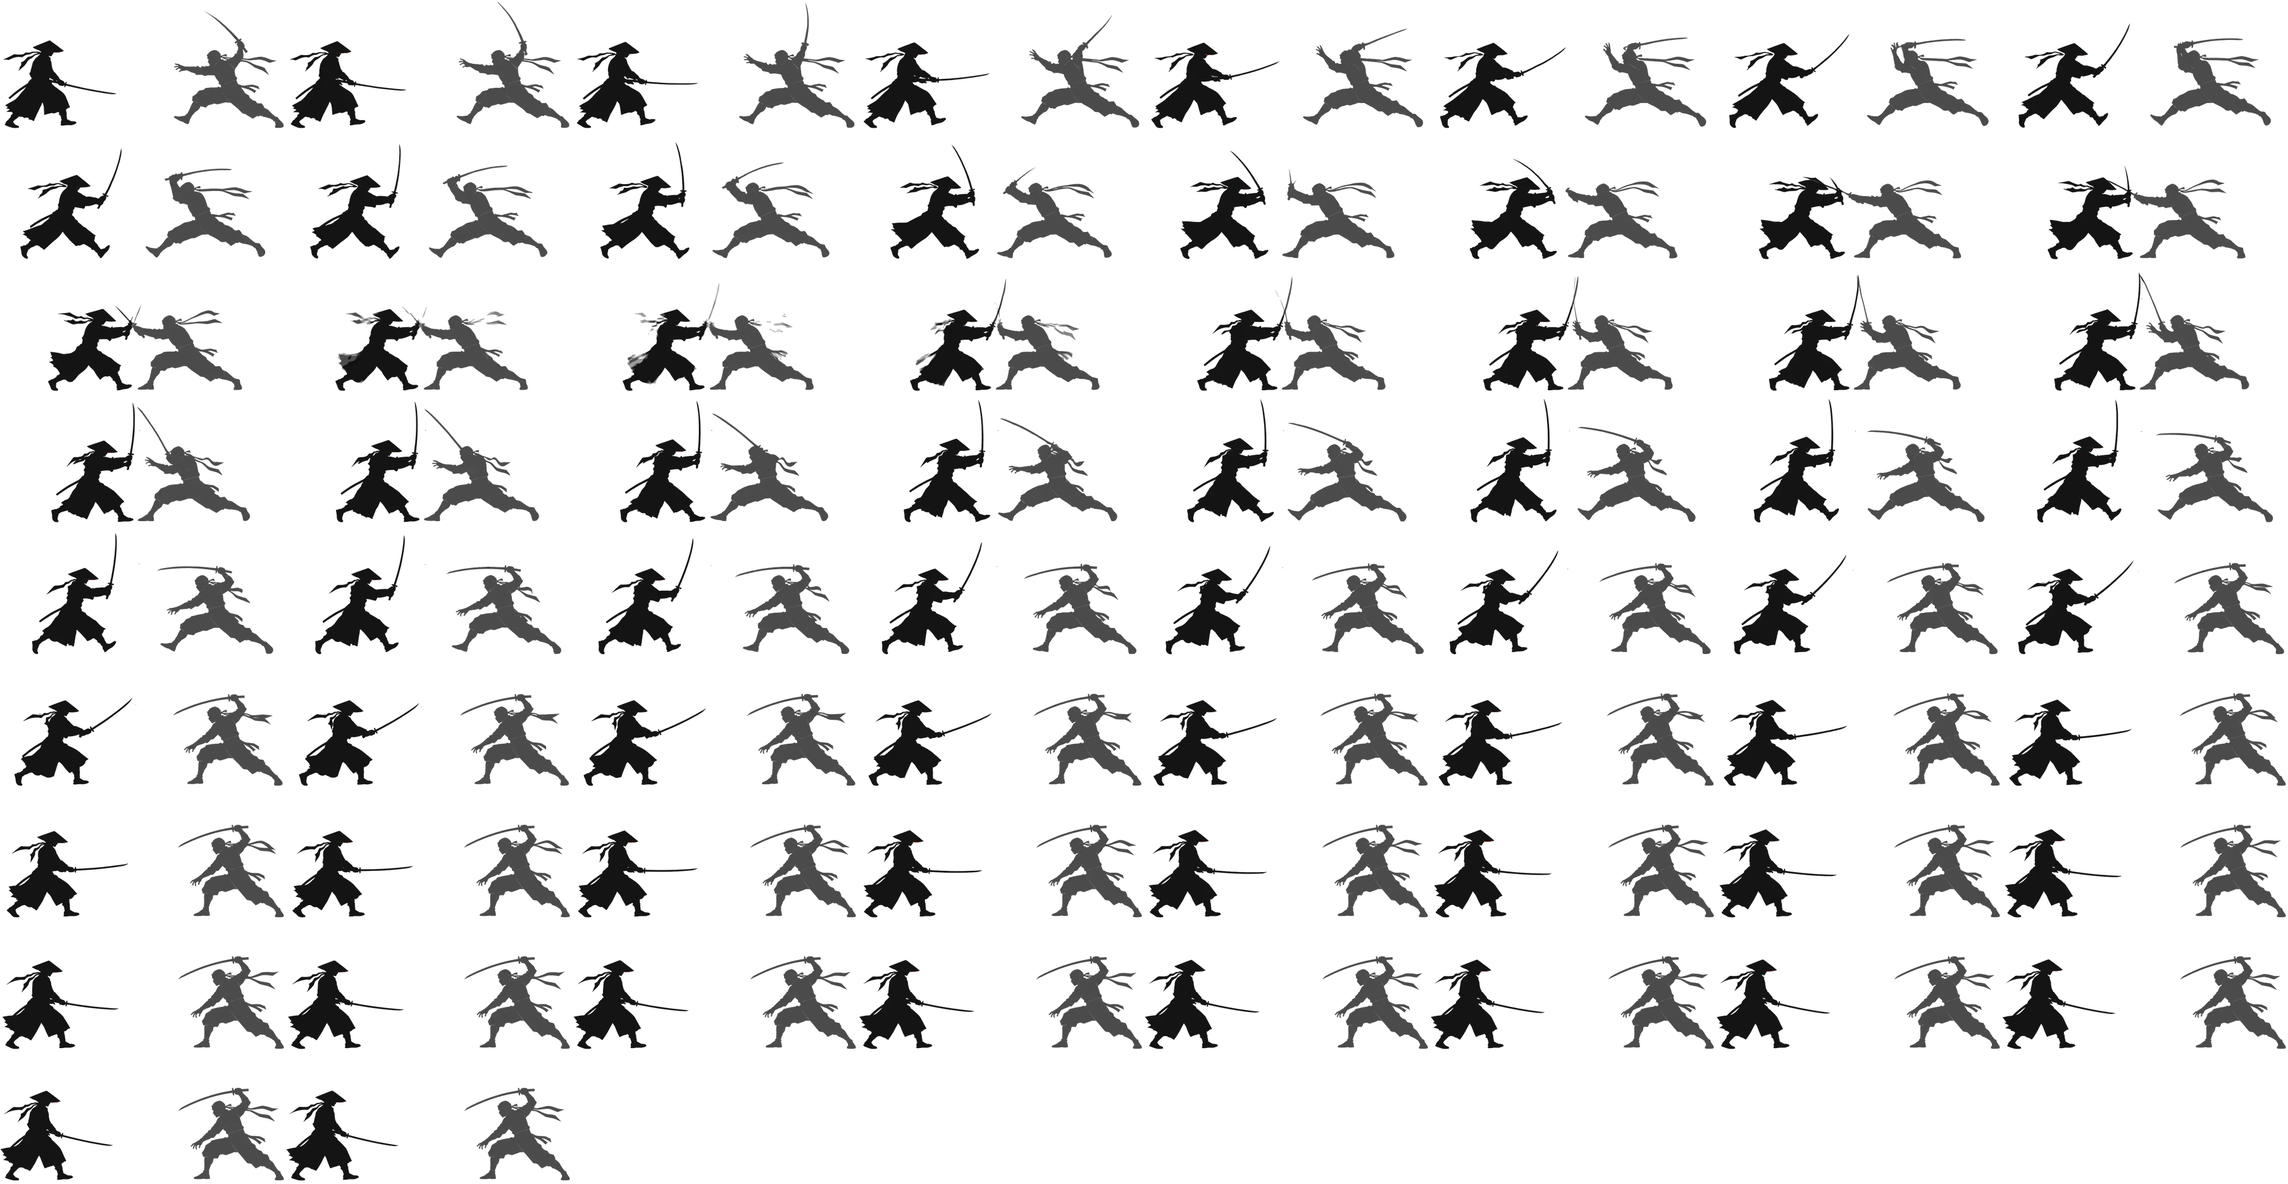
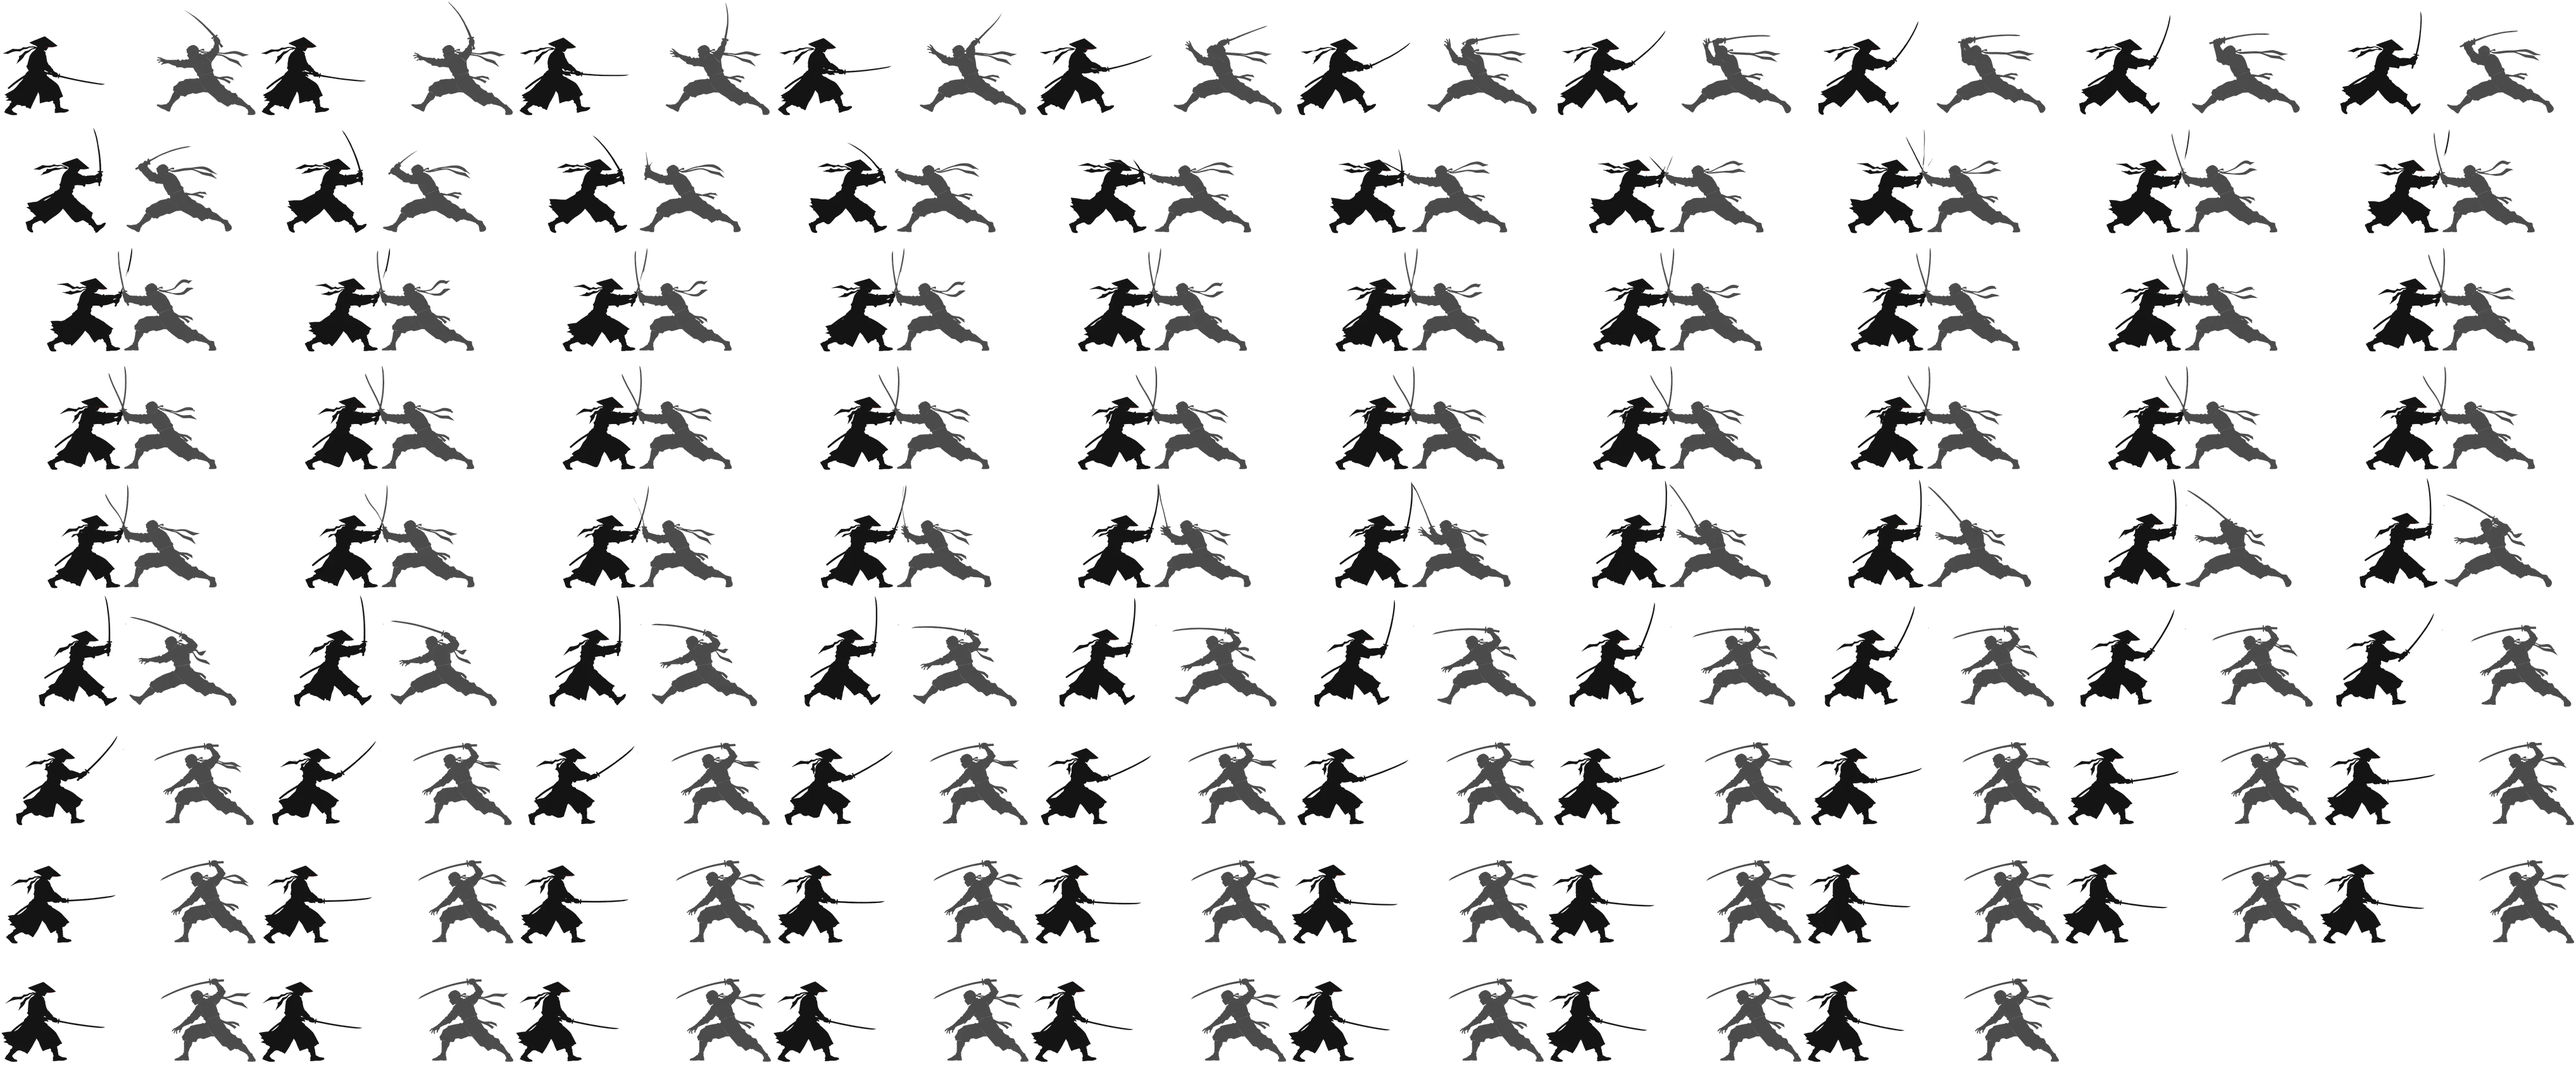
v0.36: parry súper fluido (cuadros 13 a 100 seguidos, sin saltos ni pausas)
Claude-Session: https://claude.ai/code/session_01BXqy3F16TAremLTdTkdmfS

diff --git a/src/ui/animaciones/Escena.tsx b/src/ui/animaciones/Escena.tsx
@@ -454,24 +454,23 @@ function Parry({ dur }: { dur: number }) {
 }
 
 /**
- * Parry hecho con el video de Luma de Navil (scripts/parry-sprites.py), todos los cuadros seguidos a 24 fps:
- * el rival salta y ataca, choque (pausa de impacto, destello, chispas y el kanji 忍 con su aura), tres cuadros
- * intermedios generados (minterpolate) hacia el rebote, se separan, el rival sale despedido y vuelven a guardia
- * hasta que la tela se asienta (sin cortar el movimiento: así no se traba al final).
+ * Parry hecho con el video de Luma de Navil (scripts/parry-sprites.py): los cuadros 13 a 100 seguidos a
+ * 24 fps, sin saltos ni pausas: el rival salta y ataca, choque (destello, chispas y el kanji 忍 con su aura),
+ * forcejeo, se separan, el rival sale despedido y vuelven a guardia hasta que la tela se asienta.
  */
-const PARRY_HOJA = { w: 452, h: 208, cols: 8, filas: 9 }
+const PARRY_HOJA = { w: 407, h: 187, cols: 10, filas: 9 }
 /** Cuántos cuadros de 24 fps se muestra cada celda de la hoja, en orden (velocidad natural del video). */
-const PARRY_TIEMPOS = [...Array(16).fill(1), 3, ...Array(48).fill(1), 2]
+const PARRY_TIEMPOS: number[] = Array(88).fill(1)
 const PARRY_CELDA_CHOQUE = 16
 const PARRY_TICKS = PARRY_TIEMPOS.reduce((a, b) => a + b, 0)
 const PARRY_INICIOS = PARRY_TIEMPOS.map((_, i) => PARRY_TIEMPOS.slice(0, i).reduce((a, b) => a + b, 0) / PARRY_TICKS)
 /** Momento del choque y del rebote (fracción de la duración). */
 const PARRY_CHOQUE = PARRY_INICIOS[PARRY_CELDA_CHOQUE]
-const PARRY_REBOTE = PARRY_INICIOS[PARRY_CELDA_CHOQUE + 1]
+const PARRY_REBOTE = PARRY_INICIOS[42] // cuadro 55: se separan
 const PARRY_CAJA = { x: 30, ancho: 300 }
 const PARRY_ALTO = (PARRY_CAJA.ancho * PARRY_HOJA.h) / PARRY_HOJA.w
-const PARRY_Y = SUELO_Y - (201 / PARRY_HOJA.h) * PARRY_ALTO
-const PARRY_CONTACTO = { x: PARRY_CAJA.x + (211 / PARRY_HOJA.w) * PARRY_CAJA.ancho, y: PARRY_Y + (94 / PARRY_HOJA.h) * PARRY_ALTO }
+const PARRY_Y = SUELO_Y - (181 / PARRY_HOJA.h) * PARRY_ALTO
+const PARRY_CONTACTO = { x: PARRY_CAJA.x + (190 / PARRY_HOJA.w) * PARRY_CAJA.ancho, y: PARRY_Y + (84 / PARRY_HOJA.h) * PARRY_ALTO }
 // Las hojas se cargan de antemano para que el primer parry no salga vacío.
 if (typeof Image !== 'undefined') for (const t of ['claro', 'oscuro']) { const im = new Image(); im.src = `${import.meta.env.BASE_URL}animaciones/parry/parry-${t}.webp`; im.decode?.().catch(() => undefined) }
 

diff --git a/src/ui/estilos.css b/src/ui/estilos.css
@@ -1385,7 +1385,6 @@ body::before { content: ''; position: fixed; inset: 0; z-index: 1000; pointer-ev
 .sh-pv-destello { opacity: 0; animation: sh-pv-destello var(--dur) linear forwards; }
 .sh-pv-brillo { opacity: 0; animation: sh-pv-brillo var(--dur) ease-out forwards; }
 .sh-pv-chispas { opacity: 0; animation: sh-pv-chispas var(--dur) ease-out forwards; }
-.sh-pv-sacudida { animation: sh-pv-rebote var(--dur) linear forwards; }
 .sh-capa.parry-video .sh-escenario {
   -webkit-mask-image: linear-gradient(100deg, #000 0 42%, rgba(0,0,0,.6) 47%, transparent 52%);
   mask-image: linear-gradient(100deg, #000 0 42%, rgba(0,0,0,.6) 47%, transparent 52%);

diff --git a/src/ui/animaciones/motor.ts b/src/ui/animaciones/motor.ts
@@ -20,7 +20,7 @@ export type ModoAnimaciones = 'todas' | 'logros' | 'ninguna'
 /** Duración máxima de cada animación (ms), según lo pedido. */
 export const DURACION: Record<Animacion['tipo'], number> = {
   ejecucion: 1500,
-  parry: 2875, // parry hecho con el video de Luma (69 cuadros a 24 fps)
+  parry: 3667, // parry hecho con el video de Luma (88 cuadros seguidos a 24 fps)
   postura: 1200,
   logro: 2000,
 }

diff --git a/scripts/parry-sprites.py b/scripts/parry-sprites.py
@@ -2,21 +2,20 @@
 
 Uso: python3 -I scripts/parry-sprites.py <dir_cuadros_png> <dir_salida>
 Los cuadros son los PNG del video a 24 fps (0001.png = primer cuadro).
-Tira: el rival se prepara (7–11), salta y ataca (13–24), choque (29, el más limpio; la app dibuja
-destello y chispas), se saltea el forcejeo y sigue el rebote: se separan, el rival sale despedido y
-vuelven a guardia (55–88). Los cuadros con hojas borrosas, dobles o dobladas (25–28, 30–54) quedan afuera.
+Tira: todos los cuadros seguidos del 13 al 100: el rival salta y ataca, choque (29; la app dibuja
+destello y chispas), forcejeo, se separan (55), el rival sale despedido y vuelven a guardia.
+No se saltea ni se pausa nada: Navil prefiere que sea súper fluido.
 """
 import sys, json
 import numpy as np
 from PIL import Image
 
-# (cuadro del video, cuántos cuadros de 24 fps se muestra). Todos los cuadros seguidos de cada tramo.
-# 1001–1003: cuadros intermedios del choque (29) al rebote (55), generados con
-#   ffmpeg minterpolate (mci, aobmc, bidir) sobre 28, 29, 55, 56, 57 -> o06, o07, o08.
-TIRA = [(n, 1) for n in range(13, 29)] + [(29, 3)] + [(1001, 1), (1002, 1), (1003, 1)] + [(n, 1) for n in range(55, 100)] + [(100, 2)]
+# (cuadro del video, cuántos cuadros de 24 fps se muestra). Todo seguido del 13 al 100, sin saltear
+# ni pausar nada (Navil prefiere que sea súper fluido aunque alguna hoja se vea rara en el forcejeo).
+TIRA = [(n, 1) for n in range(13, 101)]
 CUADROS = [n for n, _ in TIRA]
 CAJA = (40, 30, 945, 445)                           # x0, y0, x1, y1 en el video (sin la marca de Luma)
-ESCALA = 0.5                                         # 905 px de ancho -> 452 (escena grande)
+ESCALA = 0.45                                        # 905 px de ancho -> 407 (escena grande)
 CONTACTO = (462, 217)                                # donde se cruzan las hojas en el cuadro 29 (px del video)
 TEMAS = {
     'claro':  {'shinobi': (20, 20, 20), 'rival': (75, 75, 75)},
@@ -78,11 +77,11 @@ def cuadro(n, tema):
 for tema in TEMAS:
     celdas = [cuadro(n, tema) for n in CUADROS]
     w, h = celdas[0].size
-    cols = 8
+    cols = 10
     filas = (len(celdas) + cols - 1) // cols
     hoja = Image.new('RGBA', (w * cols, h * filas), (0, 0, 0, 0))
     for i, c in enumerate(celdas):
         hoja.paste(c, ((i % cols) * w, (i // cols) * h))
-    hoja.save(f'{salida}/parry-{tema}.webp', 'WEBP', quality=70, method=6, alpha_quality=78)
+    hoja.save(f'{salida}/parry-{tema}.webp', 'WEBP', quality=68, method=6, alpha_quality=75)
 
 print(json.dumps({'celda': [w, h], 'columnas': cols, 'filas': filas, 'cuadros': len(CUADROS), 'pies': round((432 - CAJA[1]) * ESCALA), 'tiempos': [t for _, t in TIRA], 'choque': CUADROS.index(29), 'contacto': [round((CONTACTO[0] - CAJA[0]) * ESCALA), round((CONTACTO[1] - CAJA[1]) * ESCALA)]}))
